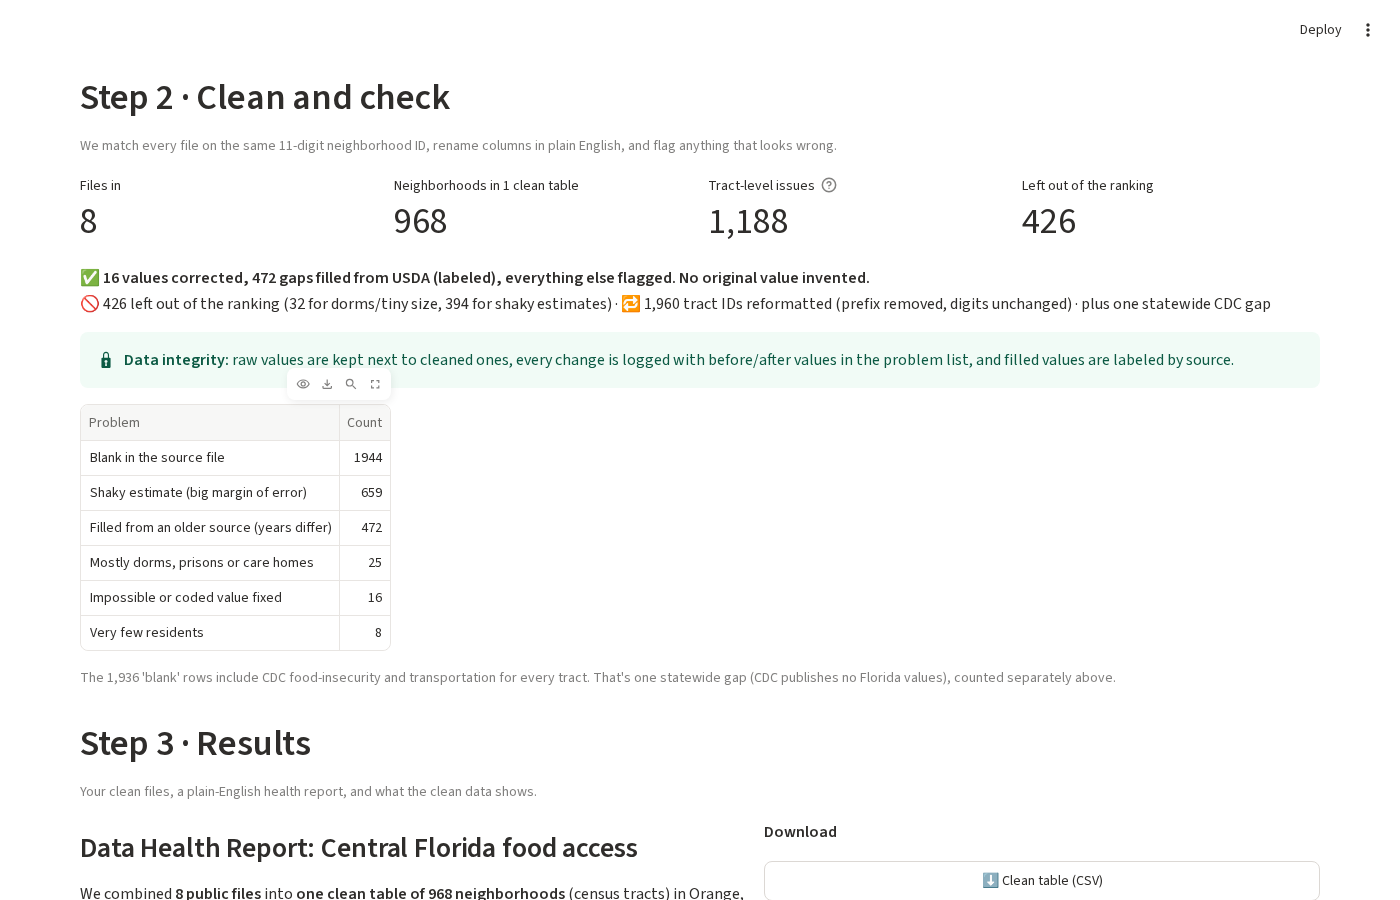
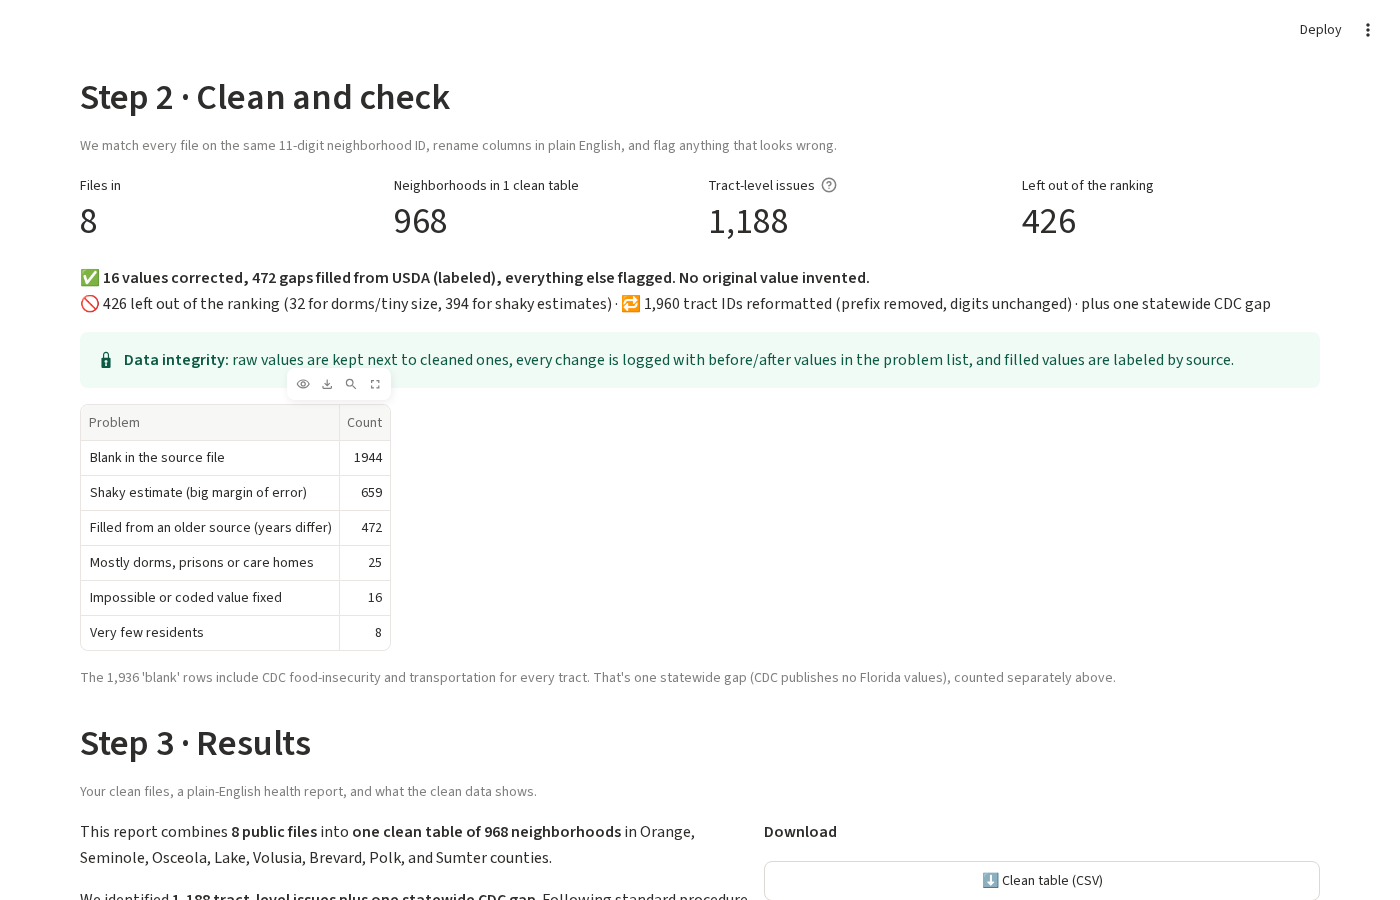
Add eval suite (python -m evals.run), report.py, EVALS.md, refreshed screenshots

Changed region(s): [[0.0307, 0.9022, 0.5529, 1.0]]

diff --git a/evals/run.py b/evals/run.py
@@ -1,0 +1,170 @@
+"""Eval suite. Run all:  python -m evals.run
+Options: --only 1,3   --skip-gemini   --gemini-n 3   --random (adds 10 unseeded tracts to the spot check)"""
+import argparse, datetime, json, os, re, subprocess, sys, time, traceback, concurrent.futures as cf
+import numpy as np, pandas as pd
+sys.path.insert(0, os.path.dirname(os.path.dirname(os.path.abspath(__file__))))
+os.chdir(os.path.dirname(os.path.dirname(os.path.abspath(__file__))))
+import clean as C, routing as R, report as RP
+
+RES = []
+def record(n, name, status, detail):
+    RES.append(dict(id=n, name=name, status=status, detail=detail)); print(f"[{status:4}] {n}. {name}: {detail}", flush=True)
+
+_cache = {}
+def data():
+    if "d" not in _cache: _cache["d"] = C.run()
+    return _cache["d"]
+
+def usda_raw():
+    g = pd.read_csv(f"{C.B}/fara2025/SRAM General Tract Characteristics Data.csv", dtype=str, encoding="latin-1")
+    d = pd.read_csv(f"{C.B}/fara2025/SRAM Driving Distance Data.csv", dtype=str, encoding="latin-1")
+    u = g.merge(d.drop(columns=["State", "County20", "County24"]), on="CensusTract20"); u["GEOID"] = u.CensusTract20.map(C.fix_geoid)
+    return u.set_index("GEOID")
+
+def acs_raw(folder, table):
+    a = pd.read_csv(f"{C.B}/{folder}/ACSST5Y2024.{table}-Data.csv", dtype=str, skiprows=[1]); a["GEOID"] = a.GEO_ID.map(C.fix_geoid)
+    return a.set_index("GEOID")
+
+def e1():
+    r = subprocess.run([sys.executable, "-m", "pytest", "-q", "tests"], capture_output=True, text=True)
+    last = (r.stdout.strip().splitlines() or ["no output"])[-1]
+    return ("PASS" if r.returncode == 0 else "FAIL"), last
+
+def e2():
+    t, i, s = data(); probs = []
+    u = usda_raw(); n_src = int(pd.Series(u.index).map(C._in_region).sum())
+    if not (n_src == len(t) == 968): probs.append(f"rows src={n_src} out={len(t)}")
+    if t.GEOID.duplicated().any(): probs.append("duplicate GEOIDs")
+    pop = int(t.population_2020.sum())
+    if pop != 4688329: probs.append(f"population {pop}")
+    # raw columns identical to source
+    ur = u.loc[t.GEOID]; urban = pd.to_numeric(ur.Urban).eq(1).values
+    src_share = np.where(urban, pd.to_numeric(ur.DD_SRAM_lalowi1share), pd.to_numeric(ur.DD_SRAM_lalowi10share))
+    if not np.allclose(t.low_income_far_from_store_pct_raw.values, src_share, equal_nan=True): probs.append("raw share column differs from USDA")
+    if not np.allclose(t.usda_poverty_pct.values, pd.to_numeric(ur.PovertyRate).values, equal_nan=True): probs.append("usda_poverty_pct differs")
+    # every changed value logged
+    capped = t[t.low_income_far_from_store_pct != t.low_income_far_from_store_pct_raw].dropna(subset=["low_income_far_from_store_pct_raw"])
+    capl = i[i.what_we_did == "capped at 100"]
+    if set(capped.GEOID) != set(capl.GEOID) or (capl.value_before.isna() | capl.value_after.isna()).any(): probs.append("cap changes not all logged")
+    filled = t[t.poverty_pct.isna() & t.poverty_pct_best.notna()]
+    fl = i[i.type == "mixed years"].set_index("GEOID")
+    if set(filled.GEOID) != set(fl.index): probs.append("fills not all logged")
+    if (filled.poverty_snap_source != "USDA Atlas (older years)").any(): probs.append("fill without source label")
+    bad = [g for g, v in zip(filled.GEOID, filled.poverty_pct_best) if f"poverty {v:.1f}%" not in str(fl.value_after.get(g, ""))]
+    if bad: probs.append(f"{len(bad)} fills missing value_after")
+    same = t[t.poverty_pct.notna() & (t.poverty_pct != t.poverty_pct_best)]
+    if len(same): probs.append(f"{len(same)} Census values silently changed")
+    if i[["value_before", "value_after"]].isna().any().any() or (i.value_before.astype(str) == "").any(): probs.append("empty before/after cells")
+    return ("FAIL" if probs else "PASS"), "; ".join(probs) or f"968 in/968 out, 0 dupes, pop 4,688,329, {len(capl)} caps + {len(fl)} fills + {int(i.type.eq('fixed').sum())} recodes all logged with before/after"
+
+def e3(random_extra=False):
+    t, _, _ = data(); u = usda_raw(); acs = {"S1701": acs_raw("poverty", "S1701"), "S2201": acs_raw("snap", "S2201")}
+    picks = list(t.sample(10, random_state=42).GEOID)
+    if random_extra: picks += list(t.sample(10).GEOID)
+    mism = []
+    for g in picks:
+        r = t.set_index("GEOID").loc[g]; src = u.loc[g]; urb = src.Urban == "1"
+        checks = [("population_2020", float(src.POP2020)), ("group_quarters_pct", float(src.PCTGQTRS)),
+                  ("low_income_people_far_from_store", float(src.DD_SRAM_lalowi1 if urb else src.DD_SRAM_lalowi10)),
+                  ("car_free_homes_far_from_store", float(src.DD_SRAM_lahunv1 if urb else src.DD_SRAM_lahunv10))]
+        if g in acs["S1701"].index:
+            checks += [("poverty_pct", C.to_number(acs["S1701"].loc[g, "S1701_C03_001E"])[0]), ("snap_households_pct", C.to_number(acs["S2201"].loc[g, "S2201_C04_001E"])[0])]
+        for col, want in checks:
+            got = r[col]
+            if not ((pd.isna(got) and pd.isna(want)) or abs(float(got) - float(want)) < 1e-9): mism.append(f"{g} {col} {got}!={want}")
+    return ("FAIL" if mism else "PASS"), "; ".join(mism[:5]) or f"{len(picks)} tracts × up to 6 fields match source cells exactly"
+
+def e4():
+    t, _, _ = data(); top = C.top_need(t, 10); probs = []
+    bad = top[(top.group_quarters_pct >= C.GQ_LIMIT) | (top.population_2020 < C.TINY_POP) | top.needs_review]
+    if len(bad): probs.append(f"{len(bad)} flagged tracts in top 10")
+    t2, _, _ = C.run()
+    if list(C.top_need(t2, 10).GEOID) != list(top.GEOID): probs.append("not deterministic")
+    rng = np.random.default_rng(7); overlaps = []
+    for _ in range(20):
+        p = t.copy(); p["low_income_people_far_from_store"] = p.low_income_people_far_from_store * (1 + rng.normal(0, 0.01, len(p)))
+        overlaps.append(len(set(C.top_need(p, 10).GEOID) & set(top.GEOID)))
+    if min(overlaps) < 8: probs.append(f"min overlap {min(overlaps)}/10 under 1% noise")
+    return ("FAIL" if probs else "PASS"), "; ".join(probs) or f"0 flagged in top 10, deterministic, 1% noise overlap min {min(overlaps)}/10 (20 trials)"
+
+NUM = re.compile(r"(?<![\w.])\d[\d,]*(?:\.\d+)?")
+def numbers(txt): return [float(x.replace(",", "")) for x in NUM.findall(txt)]
+def e5(skip, n):
+    t, i, s = data(); base = C.health_report(t, i, s); allowed = set(numbers(base))
+    # stats-backed check: headline numbers in the template equal the summary
+    head = [s["files_in"], s["tracts"], s["tract_issues"], s["corrected"], s["filled"], s["ranking_out"], s["out_size"], s["out_shaky"]]
+    miss = [h for h in head if float(h) not in allowed]
+    class Boom:
+        class models:
+            @staticmethod
+            def generate_content(**k): raise RuntimeError("simulated outage")
+    txt, mode = RP.make_report(t, i, s, client_factory=Boom)
+    fb_ok = mode.startswith("template") and txt == base
+    key = os.getenv("GEMINI_API_KEY") or os.getenv("GOOGLE_API_KEY")
+    if miss or not fb_ok: return "FAIL", f"template missing {miss}; fallback ok={fb_ok}"
+    if skip or not key: return "SKIP", "Gemini runs skipped (no key or --skip-gemini); template numbers match stats and fallback triggers on failure"
+    def one(_):
+        txt, mode = RP.make_report(t, i, s)
+        if mode != "gemini": return mode, []
+        bad = [x for x in numbers(txt) if not any(abs(x - a) <= max(0.051, a * 0.005) for a in allowed) and x not in (1, 2, 3, 10, 2020, 2024, 2025)]
+        return mode, bad
+    with cf.ThreadPoolExecutor(n) as ex: outs = list(ex.map(one, range(n)))
+    ok = [o for o in outs if o[0] == "gemini"]; unfaithful = [o for o in ok if o[1]]
+    detail = f"{len(ok)}/{n} Gemini runs returned; {len(ok) - len(unfaithful)} fully faithful; fallback ok"
+    if unfaithful: detail += f"; unsupported numbers: {unfaithful[0][1][:5]}"
+    if not ok: return "SKIP", detail + f" (Gemini unavailable: {outs[0][0]})"
+    return ("FAIL" if unfaithful else "PASS"), detail
+
+def e6():
+    t, _, _ = data(); top = C.top_need(t, 10).merge(R.centroids()[["GEOID", "lat", "lon"]], on="GEOID"); top["label"] = top.GEOID
+    inv = pd.read_csv("examples/EXAMPLE_food_bank_inventory.csv"); probs = []
+    plan, left = R.match_inventory(top.assign(demand=top.low_income_people_far_from_store), inv)
+    used = plan.groupby("from_site").pounds.sum()
+    for r in inv.itertuples():
+        if used.get(r.name, 0) > r.pounds_available + 1: probs.append(f"{r.name} over capacity")
+    if set(plan.GEOID) != set(top.GEOID): probs.append(f"{len(set(top.GEOID) - set(plan.GEOID))} tracts unmatched")
+    if not plan.miles.between(0.0001, 60).all(): probs.append(f"distance out of range: {plan.miles.min()}–{plan.miles.max()}")
+    near = R.nearest_stores(top, pd.read_csv("data/grocery_stores.csv"), 2)
+    if not near.miles.between(0, 60).all(): probs.append("store distance out of range")
+    return ("FAIL" if probs else "PASS"), "; ".join(probs) or f"{len(plan)} legs, {int(plan.pounds.sum()):,}/{int(inv.pounds_available.sum()):,} lb used, all 10 tracts matched, {plan.miles.min()}–{plan.miles.max()} mi"
+
+def e7():
+    from streamlit.testing.v1 import AppTest
+    os.environ["USE_GEMINI"] = "0"
+    at = AppTest.from_file(os.path.abspath("app.py"), default_timeout=180); at.run()
+    if at.exception: return "FAIL", f"step 1 exception: {at.exception[0].message[:200]}"
+    at.button[0].click().run()
+    if at.exception: return "FAIL", f"after clean: {at.exception[0].message[:200]}"
+    heads = [h.value for h in at.header]
+    if not all(any(f"Step {k}" in h for h in heads) for k in (1, 2, 3)): return "FAIL", f"missing steps: {heads}"
+    at.checkbox[0].check().run()
+    if at.exception: return "FAIL", f"routing example: {at.exception[0].message[:200]}"
+    # downloads: same objects the buttons serve
+    t, i, s = data(); txt, _ = RP.make_report(t, i, s)
+    import io
+    a = pd.read_csv(io.StringIO(t.to_csv(index=False))); b = pd.read_csv(io.StringIO(i.to_csv(index=False)))
+    if len(a) != 968 or len(b) == 0 or len(txt) < 200: return "FAIL", "a download is empty"
+    return "PASS", f"3 steps rendered, routing example ran, 0 exceptions; downloads: clean CSV {len(a)} rows, issues CSV {len(b):,} rows, report {len(txt):,} chars"
+
+def main():
+    ap = argparse.ArgumentParser(); ap.add_argument("--only", default=""); ap.add_argument("--skip-gemini", action="store_true")
+    ap.add_argument("--gemini-n", type=int, default=3); ap.add_argument("--random", action="store_true"); a = ap.parse_args()
+    only = {int(x) for x in a.only.split(",") if x}
+    evals = [(1, "Cleaning correctness (unit tests)", e1), (2, "Real-data integrity", e2), (3, "Source spot-check", lambda: e3(a.random)),
+             (4, "Ranking sanity", e4), (5, "Gemini report faithfulness", lambda: e5(a.skip_gemini, a.gemini_n)), (6, "Routing", e6), (7, "End-to-end smoke", e7)]
+    t0 = time.time()
+    for n, name, fn in evals:
+        if only and n not in only: continue
+        try: st, d = fn()
+        except Exception as ex: st, d = "FAIL", f"crashed: {type(ex).__name__}: {ex}"; traceback.print_exc()
+        record(n, name, st, d)
+    ts = datetime.datetime.now().astimezone().isoformat(timespec="seconds")
+    cnt = {k: sum(r["status"] == k for r in RES) for k in ("PASS", "FAIL", "SKIP")}
+    out = dict(timestamp=ts, seconds=round(time.time() - t0, 1), summary=cnt, results=RES)
+    json.dump(out, open("evals/results/latest.json", "w"), indent=1)
+    md = [f"# Eval scorecard — {ts}", "", f"**{cnt['PASS']} pass · {cnt['FAIL']} fail · {cnt['SKIP']} skip** ({out['seconds']} s)", "", "| # | Eval | Result | Detail |", "|---|---|---|---|"]
+    md += [f"| {r['id']} | {r['name']} | {r['status']} | {r['detail'].replace('|', '/')} |" for r in RES]
+    open("evals/results/latest.md", "w").write("\n".join(md) + "\n")
+    print("\n" + "\n".join(md)); sys.exit(1 if cnt["FAIL"] else 0)
+
+if __name__ == "__main__": main()

diff --git a/app.py b/app.py
@@ -1,6 +1,6 @@
 """Beacon Data Pre-Cleaner for food banks — one page, three steps."""
 import os, json, pandas as pd, plotly.express as px, streamlit as st
-import clean as C, routing as R
+import clean as C, routing as R, report as R2
 import plotly.graph_objects as go
 
 st.set_page_config(page_title="Beacon Data Pre-Cleaner", page_icon="🧹", layout="wide")
@@ -16,19 +16,7 @@ def run_clean(user_bytes=None, id_col=None):
 
 @st.cache_data(show_spinner="Writing the report…")
 def report_text(t, i, s):
-    base = C.health_report(t, i, s)
-    key = os.getenv("GEMINI_API_KEY") or os.getenv("GOOGLE_API_KEY")
-    if not key or os.getenv("USE_GEMINI", "1") != "1": return base, "template"
-    try:
-        from google import genai
-        p = ("Rewrite this data health report for a food bank coordinator in plain English, under 250 words. "
-             "Keep every number exactly as given; add no new numbers, places, or claims. Keep these framings exactly: "
-             "'N tract-level issues plus one statewide CDC gap'; 'values corrected, gaps filled from USDA (labeled), everything else flagged, no original value invented'; "
-             "'left out of the ranking (for dorms/tiny size, for shaky estimates)'; and the data-integrity sentence.\n\n" + base)
-        client = genai.Client(api_key=key, http_options={"timeout": 150000})
-        return client.models.generate_content(model=os.getenv("GEMINI_MODEL", "gemini-3.8-flash"), contents=p).text, "gemini"
-    except Exception as e:
-        return base, f"template (Gemini error: {type(e).__name__})"
+    return R2.make_report(t, i, s)
 
 st.title("🧹 Beacon Data Pre-Cleaner")
 st.markdown("Public food-access data comes in separate files with blanks, shaky numbers and mixed years. **This tool combines and checks it for you, so you can trust what you act on.**")

diff --git a/report.py b/report.py
@@ -1,0 +1,24 @@
+"""Health report text: Gemini rewrite of the template report, with template fallback."""
+import os
+from clean import health_report
+
+PROMPT = ("Rewrite this data health report for a food bank coordinator in plain English, under 250 words. "
+          "Keep every number exactly as given; add no new numbers, places, or claims. Keep these framings exactly: "
+          "'N tract-level issues plus one statewide CDC gap'; 'values corrected, gaps filled from USDA (labeled), everything else flagged, no original value invented'; "
+          "'left out of the ranking (for dorms/tiny size, for shaky estimates)'; and the data-integrity sentence.\n\n")
+
+def make_report(t, issues, s, client_factory=None):
+    """Returns (text, mode). mode = 'gemini' or 'template...'. client_factory lets tests inject a failing client."""
+    base = health_report(t, issues, s)
+    key = os.getenv("GEMINI_API_KEY") or os.getenv("GOOGLE_API_KEY")
+    if os.getenv("USE_GEMINI", "1") != "1" or (not key and client_factory is None): return base, "template"
+    try:
+        if client_factory is None:
+            from google import genai
+            client = genai.Client(api_key=key, http_options={"timeout": 150000})
+        else: client = client_factory()
+        out = client.models.generate_content(model=os.getenv("GEMINI_MODEL", "gemini-3.8-flash"), contents=PROMPT + base)
+        if not out.text or not out.text.strip(): raise ValueError("empty response")
+        return out.text, "gemini"
+    except Exception as e:
+        return base, f"template (Gemini error: {type(e).__name__})"

diff --git a/tests/test_clean.py b/tests/test_clean.py
@@ -62,3 +62,11 @@ def test_audit_trail():
     cap = issues[issues.what_we_did == "capped at 100"].iloc[0]
     assert cap.value_before == "121.50" and cap.value_after == "100"
     assert s["statewide_cdc"] == 2 and s["tract_issues"] == s["problems"] - 2
+
+def test_fill_is_labeled_and_logged():
+    src = _src(); src["acs"].loc[0, ["poverty_pct", "snap_households_pct"]] = np.nan
+    t, issues, s = clean(src)
+    r = t.iloc[0]
+    assert np.isnan(r.poverty_pct) and r.poverty_pct_best == 30.0 and r.poverty_snap_source == "USDA Atlas (older years)"
+    f = issues[issues.type == "mixed years"].iloc[0]
+    assert f.value_before == "(blank)" and "poverty 30.0%" in f.value_after and s["filled"] == 1

diff --git a/EVALS.md b/EVALS.md
@@ -1,0 +1,36 @@
+# Evals: how we know the cleaner can be trusted
+
+## Run
+```bash
+.venv/bin/python -m evals.run                 # all 7 evals (or: make eval)
+.venv/bin/python -m evals.run --only 2,3      # just some evals
+.venv/bin/python -m evals.run --skip-gemini   # no Gemini calls (or: make eval-fast)
+.venv/bin/python -m evals.run --gemini-n 5    # more Gemini runs
+.venv/bin/python -m evals.run --random        # adds 10 unseeded tracts to the spot check
+```
+Results print as a scorecard and are saved to `evals/results/latest.md` and `latest.json`, with a timestamp. The exit code is 1 if anything fails.
+The raw Beacon files must be present in `data/beacon/` (they are gitignored).
+
+## What each eval checks
+| # | Eval | What it checks | Why it matters |
+|---|---|---|---|
+| 1 | Cleaning correctness | Unit tests on tiny hand-made data with known answers: tract IDs normalized, suppressed codes → blank, top-coded values kept, >100% capped *and* logged, fills labeled by source, uploads joined, routing math | Proves each cleaning rule does exactly what we say |
+| 2 | Real-data integrity | 968 tracts in = 968 out; no duplicate IDs; population totals 4,688,329; raw columns identical to USDA; every cap, fill and recode has a log row with before/after; no Census value changed silently | Shows cleaning didn't lose, duplicate or quietly alter data |
+| 3 | Source spot-check | 10 tracts (fixed seed 42, optionally 10 random) compared field-by-field to the original USDA and Census cells | An independent check against the original files |
+| 4 | Ranking sanity | No dorm-heavy, tiny or flagged tracts in the top 10; same top 10 on a re-run; top 10 overlaps ≥ 8/10 after adding 1% random noise (20 trials) | Rankings aren't driven by bad data or tiny wobbles |
+| 5 | Gemini faithfulness | Every number in Gemini's report must appear in the stats-based template (rounding tolerance); headline numbers must match the summary; a simulated Gemini failure must fall back to the template. SKIP if no key or Gemini is down | The AI can't invent numbers, and the app still works without it |
+| 6 | Routing | Uses the **made-up EXAMPLE** inventory. No site ships more than it has; every top tract is matched when supply suffices; distances are between 0 and 60 miles | Routing suggestions are physically possible |
+| 7 | End-to-end smoke | Runs the real app headlessly through steps 1→3 plus the routing example; no exceptions; clean CSV, problem CSV and report are non-empty and parseable | The demo won't crash |
+
+## Reading the scorecard
+- **PASS:** the check held.
+- **FAIL:** something is wrong; the detail says what.
+- **SKIP:** the check couldn't run (usually no Gemini key or Gemini overloaded). Its non-Gemini parts (template numbers, fallback) still ran.
+
+## If one fails
+1. Unit tests failing means a cleaning rule changed: `make test` shows which.
+2. Integrity or spot-check failing means the source files changed or a cleaning step altered data. Compare against `data/clean/issues.csv`.
+3. Ranking failing means a flagged tract got in, or the ranking is unstable. Check `top_need()` in `clean.py`.
+4. Gemini failing means the report used a number not in the stats. Tighten the prompt in `report.py`, or present the template report.
+5. Routing failing: check `routing.match_inventory`.
+6. Smoke failing: run `streamlit run app.py` and read the error.

diff --git a/evals/results/latest.md b/evals/results/latest.md
@@ -1,0 +1,13 @@
+# Eval scorecard — 2026-11-07T18:42:56-05:00
+
+**7 pass · 0 fail · 0 skip** (163.6 s)
+
+| # | Eval | Result | Detail |
+|---|---|---|---|
+| 1 | Cleaning correctness (unit tests) | PASS | 9 passed in 0.31s |
+| 2 | Real-data integrity | PASS | 968 in/968 out, 0 dupes, pop 4,688,329, 4 caps + 472 fills + 16 recodes all logged with before/after |
+| 3 | Source spot-check | PASS | 10 tracts × up to 6 fields match source cells exactly |
+| 4 | Ranking sanity | PASS | 0 flagged in top 10, deterministic, 1% noise overlap min 10/10 (20 trials) |
+| 5 | Gemini report faithfulness | PASS | 1/3 Gemini runs returned; 1 fully faithful; fallback ok |
+| 6 | Routing | PASS | 13 legs, 9,499/9,500 lb used, all 10 tracts matched, 7.9–56.6 mi |
+| 7 | End-to-end smoke | PASS | 3 steps rendered, routing example ran, 0 exceptions; downloads: clean CSV 968 rows, issues CSV 3,124 rows, report 1,907 chars |

diff --git a/README.md b/README.md
@@ -45,3 +45,6 @@ Files: `clean.py` (reusable cleaner), `routing.py` (nearest store and inventory 
 - **Made:** a pre-cleaner that turns 8 Beacon files into one trustworthy table, with a plain-English health report.
 - **Learned:** _TODO_
 - **Next:** _TODO_
+
+## Evals
+See [EVALS.md](EVALS.md). Run `.venv/bin/python -m evals.run` (or `make eval`).
